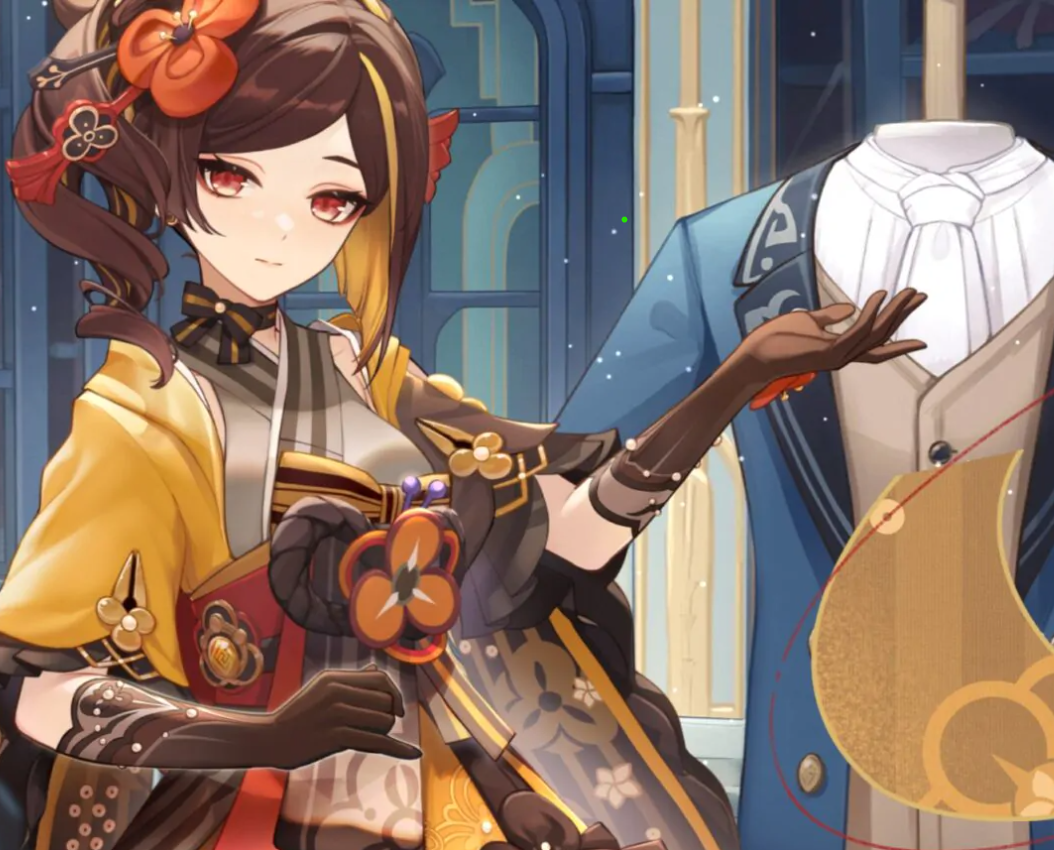
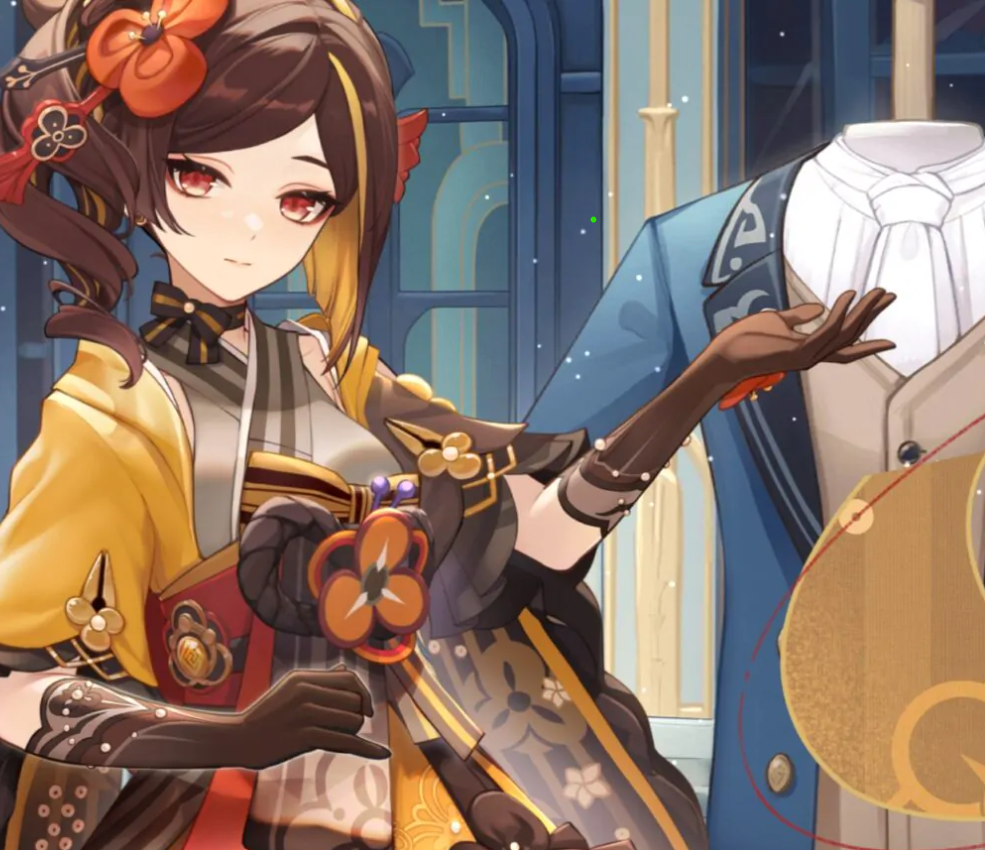
update company profile

diff --git a/css/dashboard.css b/css/dashboard.css
@@ -112,7 +112,7 @@ a {
     height: 20vh;
     width: 100%;
     justify-content: center;
-    padding: 5rem 5rem 0 10rem;
+    /* padding: 5rem 5rem 0 10rem; */
 }
 .text p{
     display: flex;
@@ -120,50 +120,48 @@ a {
     flex-direction: column;
     align-items: center;
     text-align: center;
-    height: 80vh;
+    /* height: 80vh; */
     width: 100%;
-    padding: 5rem 5rem 0 10rem;
+    /* padding: 5rem 5rem 0 10rem; */
 }
 
 .company-profile {
-    padding-top: 10rem;
+    /* padding-top: 10rem; */
     display: flex;
     width: 70rem;
     height: 40rem;
-    padding-left: 10rem;
+    padding-left: 12rem;
 }
 .company-profile .illust {
     padding-top: 3rem;
     display: flex;
     justify-content: center;
     align-items: center;
-    width: 50%;
+    width: 28rem;
 }
 .company-profile .illust img{
-    /* max-width: 30rem;
-    display: flex;
-    justify-content: center;
-    align-items: center; */
-    max-width: 80%;
-    max-height: 80%;
+    max-width: 100%;
+    max-height: 100%;
 }
 .company-profile .text {
-    margin-left : 2rem;
+    
+    padding-top: 8.7rem;
+    /* margin-left : 2rem; */
     display: flex;
     flex-direction: column;
     background-color: --main-color;
     justify-content: start;
-    align-items: start;
-    width: 50%;
+    align-items: center;
+    width: 30rem;
 }
 .company-profile .text h2 {
     display: flex;
     font-size: 2rem;
     text-align: center;
-    justify-content: center;
-    align-items: center;
     margin: 0;
     color: var(--dark-text);
+    align-items: center;
+    justify-content: center;
 }
 
 .company-profile .text h2 span {
@@ -176,4 +174,22 @@ a {
     -webkit-background-clip: text; /* Untuk dukungan di browser berbasis WebKit */
     color: transparent; /* Membuat teks transparan untuk memperlihatkan gambar */
     display: inline-block; /* Menampilkan elemen inline-block */
+}
+
+.company-profile .text p{
+    padding: 3rem 0 0 2rem;
+    /* padding-left: 2rem; */
+    display: flex;
+    align-items: center;
+    justify-content: center;
+    text-align: center;
+    
+}
+.company-profile .text h5{
+    padding-top: 1.5rem;
+    display: flex;
+    align-items: center;
+    /* justify-content: flex-end; */
+    text-align: center;
+    
 }

diff --git a/index.html b/index.html
@@ -141,13 +141,14 @@
 
     </section>
 
-    <section class="company-profile">
+    <section class="company-profile" id="company-profile">
         <div class="illust">
             <img src="/images/comp-profile.png" alt="chiori">
         </div>
         <div class="text">
             <h2>About <span>SignaTail</span></h2>
-            <p></p>
+            <p>Lorem ipsum dolor sit amet, consectetur adipisicing elit. Omnis obcaecati minima harum. Facilis atque ad cumque alias autem quaerat laborum. Lorem, ipsum dolor sit amet consectetur adipisicing elit. Facilis impedit commodi quasi cupiditate eius odit adipisci optio delectus doloribus, provident veniam ut illo consequuntur quibusdam obcaecati, unde minus itaque laboriosam?</p>
+            <h5>~~Show the world your own style~~</h5>
         </div>
 
     </section>
